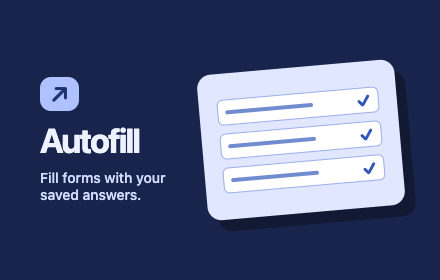
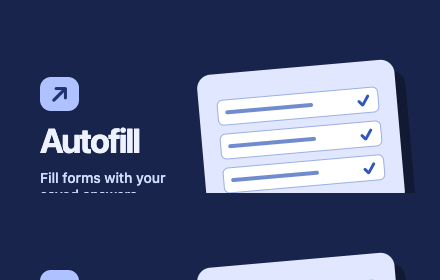
refactor: update privacy policy language and remove vault references in worker

diff --git a/src/background/worker.ts b/src/background/worker.ts
@@ -1,35 +1,22 @@
 import { blocked, classify, contextual, evidence, explainNoMatch, privateMessage, questionKey, rank } from '../matching/engine'
 import { command, originPattern, siteOf, type Command } from '../messages'
 import { candidates, defaults, emptyData, migrate, settingsSchema, type Answer, type ProfileData } from '../storage/schema'
-import { derive, newSalt, open, seal, vaultSchema } from '../storage/vault'
-
-const trustedStorage = Promise.all([
-  chrome.storage.local.setAccessLevel({accessLevel:'TRUSTED_CONTEXTS'}),
-  chrome.storage.session.setAccessLevel({accessLevel:'TRUSTED_CONTEXTS'}),
-])
+const trustedStorage = chrome.storage.local.setAccessLevel({accessLevel:'TRUSTED_CONTEXTS'})
 const pools = new WeakMap<ProfileData,ReturnType<typeof candidates>>()
-let cached: {raw:string; data:ProfileData}|undefined
+let cached:ProfileData|undefined
 async function settings() {
   const saved = (await chrome.storage.local.get('settings')).settings
   return settingsSchema.catch(defaults).parse(saved)
 }
-async function vault() {
-  const stored = (await chrome.storage.local.get('vault')).vault
-  return stored === undefined ? undefined : vaultSchema.parse(stored)
-}
-async function unlocked() {
-  const {raw} = await chrome.storage.session.get('raw')
-  if (typeof raw !== 'string') return undefined
-  if (cached?.raw === raw) return cached
-  const stored = await vault()
-  if (stored) return cached = {raw,data:await open(stored,raw)}
+async function savedData() {
+  if (cached) return cached
+  const {details} = await chrome.storage.local.get('details')
+  return cached = details === undefined ? emptyData : migrate(details)
 }
 async function write(data:ProfileData) {
-  const session = await unlocked(), stored = await vault()
-  if (!session || !stored) throw new Error('Unlock the vault first.')
   const validated = migrate(data)
-  await chrome.storage.local.set({vault:await seal(validated,session.raw,stored.salt)})
-  cached = {raw:session.raw,data:validated}
+  await chrome.storage.local.set({details:validated})
+  cached = validated
 }
 const registration = 'autofill-authorized'
 async function sync() {
@@ -59,7 +46,7 @@ async function refreshPages() {
 }
 function reconcile() { void ordered(sync).catch(console.error).finally(refreshPages) }
 chrome.storage.onChanged.addListener(changes=>{
-  if (changes.settings || changes.vault || changes.raw) void refreshPages()
+  if (changes.settings || changes.details) void refreshPages()
 })
 chrome.permissions.onAdded.addListener(reconcile)
 chrome.permissions.onRemoved.addListener(reconcile)
@@ -82,40 +69,21 @@ async function route(message:Command,sender:chrome.runtime.MessageSender) {
   if (!ownPage && (!fromContent || !['MATCH','LEARN','SITE'].includes(message.type))) throw new Error('Website access is unavailable.')
   const prefs = await settings()
   const active = Boolean(fromContent && prefs.enabled && !prefs.blocked.includes(site) && !prefs.blocked.includes(topSite))
-  const session = await unlocked()
-  const detailsOpen = Boolean(session && dashboard && sender.documentId &&
-    (await chrome.storage.session.get('detailsDocument')).detailsDocument === sender.documentId)
-  if (['PROFILE','PROJECTS','IMPORT','ANSWER','DELETE','CLEAR'].includes(message.type) && !detailsOpen) {
-    throw new Error('Enter your vault password to manage saved details.')
+  if (['PROFILE','PROJECTS','IMPORT','ANSWER','DELETE','CLEAR'].includes(message.type) && !dashboard) {
+    throw new Error('Open Manage information to change saved details.')
   }
+  const data = await savedData()
   switch (message.type) {
     case 'STATE': return {
-      settings:prefs,exists:Boolean(await vault()),unlocked:Boolean(session),
-      data:detailsOpen ? session?.data : undefined,
-      profileCount:session ? Object.values(session.data.profile).filter(value=>value.trim()).length : undefined,
-      answerCount:session?.data.answers.length,
+      settings:prefs,data:dashboard ? data : undefined,
+      profileCount:Object.values(data.profile).filter(value=>value.trim()).length,
+      answerCount:data.answers.length,
     }
     case 'SYNC': return sync()
-    case 'HIDE_DETAILS':
-      if (detailsOpen) await chrome.storage.session.remove('detailsDocument')
-      return
     case 'CLEAR':
-      await chrome.storage.session.remove(['raw','detailsDocument'])
-      await chrome.storage.local.remove(['vault','settings'])
+      await chrome.storage.local.remove(['details','vault','settings'])
       cached = undefined
       return
-    case 'UNLOCK': {
-      if (!dashboard || !sender.documentId) throw new Error('Open Manage information to unlock your vault.')
-      const stored = await vault(), salt = stored?.salt ?? newSalt()
-      const raw = await derive(message.passphrase,salt)
-      let data:ProfileData
-      try { data = stored ? await open(stored,raw) : emptyData }
-      catch { throw new Error('That password did not unlock the vault.') }
-      if (!stored) await chrome.storage.local.set({vault:await seal(data,raw,salt)})
-      await chrome.storage.session.set({raw,detailsDocument:sender.documentId})
-      cached = {raw,data}
-      return
-    }
     case 'SETTINGS': await chrome.storage.local.set({settings:settingsSchema.parse({...prefs,...message.settings})}); return
     case 'SITE': {
       const target = ownPage ? message.site : site
@@ -142,11 +110,11 @@ async function route(message:Command,sender:chrome.runtime.MessageSender) {
     case 'MATCH': {
       const responses = Object.create(null) as Record<string,ReturnType<typeof rank>>
       const skipped = Object.create(null) as Record<string,string>
-      if (active && session) {
-        let pool = pools.get(session.data)
+      if (active) {
+        let pool = pools.get(data)
         if (!pool) {
-          pool = candidates(session.data)
-          pools.set(session.data,pool)
+          pool = candidates(data)
+          pools.set(data,pool)
         }
         for (const field of message.fields) {
           const ranked = rank(field,pool,site)
@@ -158,15 +126,11 @@ async function route(message:Command,sender:chrome.runtime.MessageSender) {
             ? 'This match needs review. Turn on Suggest answers to see it.'
             : explainNoMatch(field,pool,site)
         }
-      } else if (active) {
-        for (const field of message.fields) skipped[field.id] = 'Unlock Autofill in Manage information.'
       }
-      return {active,skipped,capture:active && Boolean(session) && !prefs.noLearn.includes(site),learn:active && Boolean(session) && prefs.learn && !prefs.noLearn.includes(site),matches:responses}
+      return {active,skipped,capture:active && !prefs.noLearn.includes(site),learn:active && prefs.learn && !prefs.noLearn.includes(site),matches:responses}
     }
     default: break
   }
-  if (!session) throw new Error('Unlock the vault first.')
-  const {data} = session
   switch (message.type) {
     case 'PROJECTS': return write({...data,projects:message.projects})
     case 'PROFILE': return write({...data,profile:message.profile,education:message.education})

diff --git a/release/privacy.html b/release/privacy.html
@@ -14,13 +14,13 @@ h1,h2{line-height:1.15}h1{letter-spacing:-.04em}a{color:#075b42}
 <h1>Autofill Privacy Policy</h1>
 <p>This policy describes how the Autofill browser extension handles information to help you fill forms.</p>
 <h2>Information used by the extension</h2>
-<p>The extension uses profile details and answers you save, form labels and control metadata, and website origins associated with permissions, exclusions or saved answers. On authorized pages, it uses this information to match empty fields. With learning enabled, eligible completed answers can appear in a temporary review queue. You can also start a review manually for eligible fields you edited on the current page. An answer is added to the vault when you approve it.</p>
+<p>The extension uses profile details and answers you save, form labels and control metadata, and website origins associated with permissions, exclusions or saved answers. On authorized pages, it uses this information to match empty fields. With learning enabled, eligible completed answers can appear in a temporary review queue. You can also start a review manually for eligible fields you edited on the current page. An answer is added to local storage when you approve it.</p>
 <h2>Storage and security</h2>
-<p>Your profile and approved answers are encrypted in Chrome's local extension storage using AES-GCM. While unlocked, the derived key is available in trusted Chrome extension session storage. You can hide saved details in the dashboard while form filling stays available for the current browser session. Your passphrase is used to derive the key and is not stored. Site preferences are stored locally. JSON exports contain readable data and should be kept somewhere you trust.</p>
+<p>Autofill stores your profile, approved answers and preferences in local Chrome extension storage. Saved details and exports are readable without an Autofill password. Keep exported backups somewhere you trust.</p>
 <h2>Sharing and website access</h2>
 <p>Autofill has no developer-operated backend, analytics, advertising or data sales. If the extension fills a value on an authorized page, that website can read the value in its form. The extension does not submit forms. You control which websites it can access and can revoke that access in the extension or through Chrome.</p>
 <h2>Control and deletion</h2>
-<p>You can disable learning, delete individual answers, or use Clear saved information to remove the vault and preferences. Removing the extension clears its local extension storage. Exported backups stay wherever you saved them and can be deleted there.</p>
+<p>You can disable learning, delete individual answers, or use Clear saved information to remove saved details and preferences. Removing the extension clears its local extension storage. Exported backups stay wherever you saved them and can be deleted there.</p>
 <h2>Limited use and contact</h2>
 <p>The use of information received from Google APIs will adhere to the Chrome Web Store User Data Policy, including the Limited Use requirements. For privacy questions, use the support contact on the Autofill Chrome Web Store listing.</p>
 </main></body>
